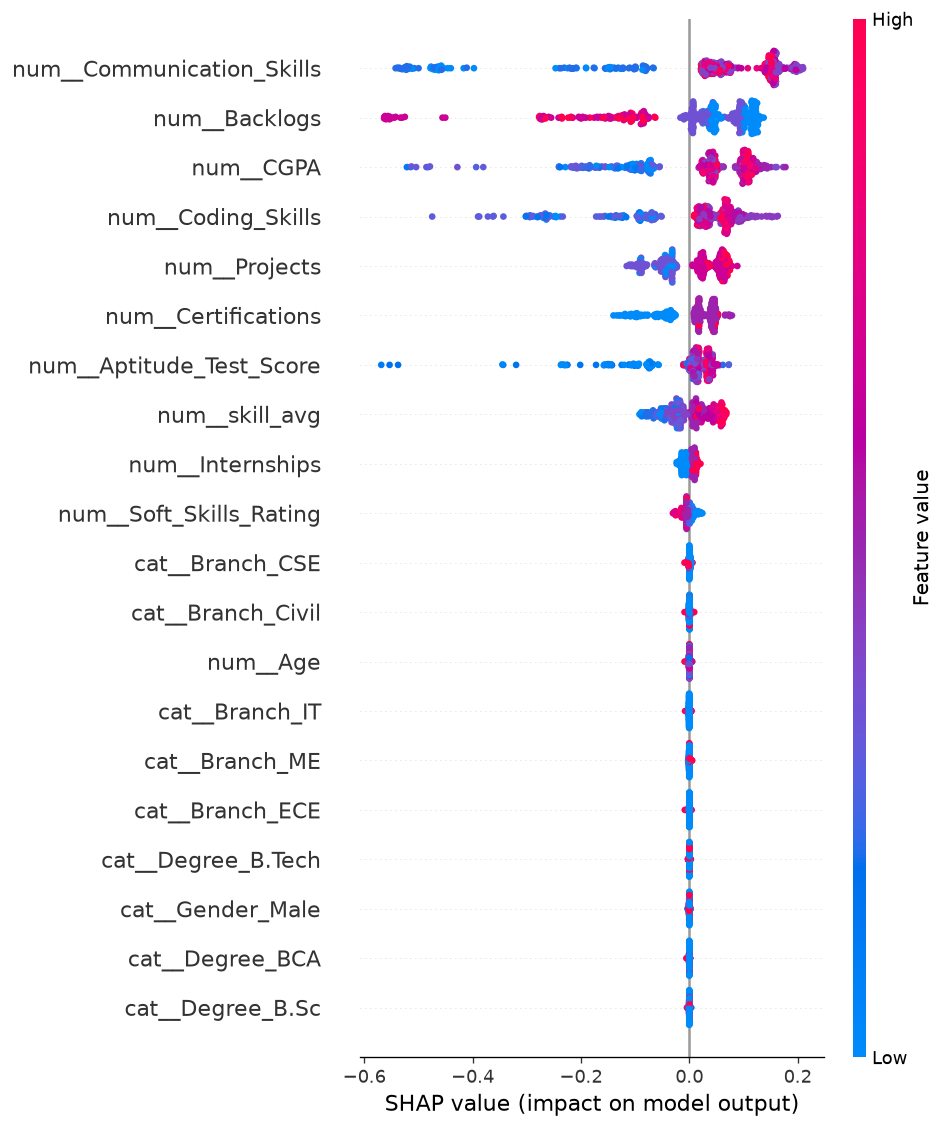
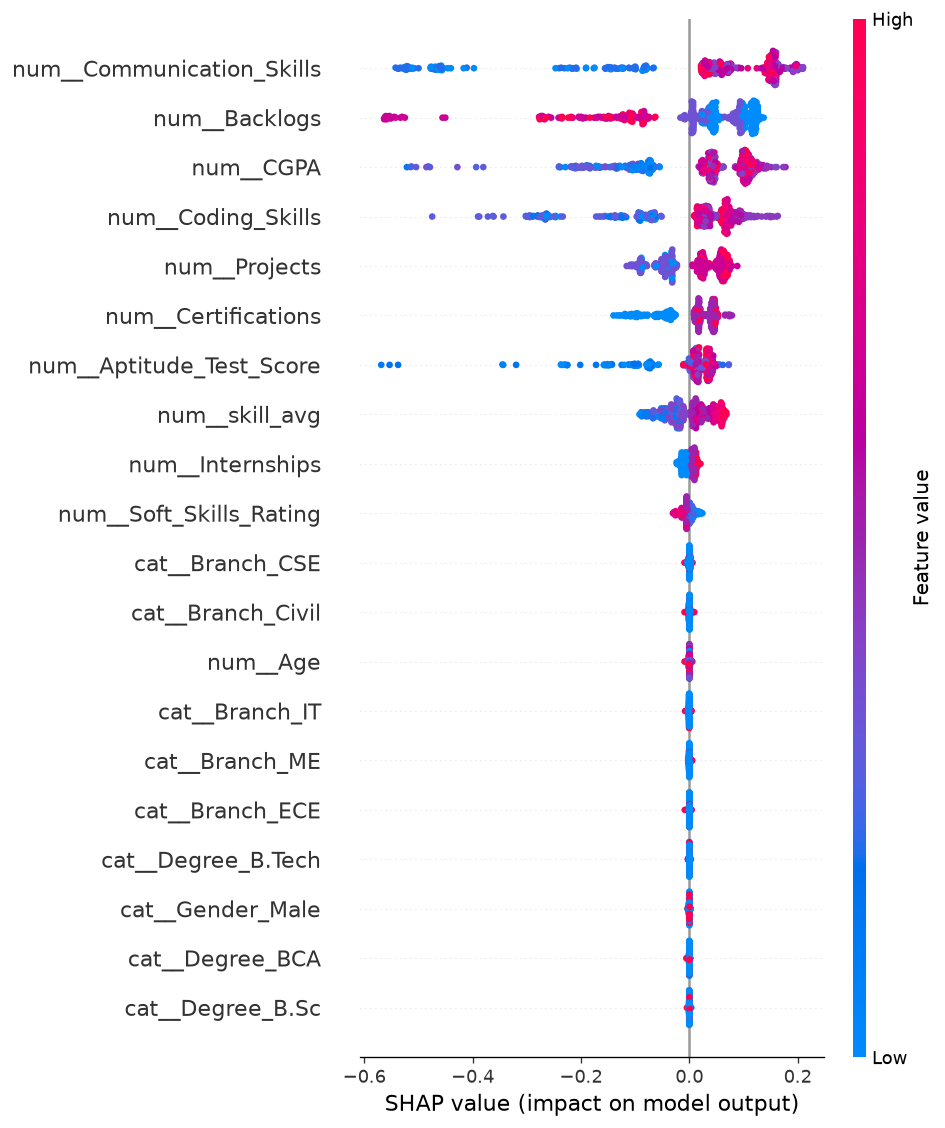
Fix all 5 round-2 audit findings
- Sync frontend HTML min/max bounds and labels to api/schema.py's tightened
  Pydantic validation (was allowing values the backend now rejects, e.g.
  Internships up to 10 vs backend's 5).
- Extract skill_avg into a shared features.py, imported by both
  model/train.py and api/main.py, instead of two hand-written copies of the
  same formula (was a train/serve skew risk).
- Guard /predict's top-3 feature selection against duplicate clean names --
  a multi-category column (Branch, Degree) produces several one-hot dummies,
  and without this two dummies for the same column could both appear in the
  response. Verified via a Branch x Degree sweep against the live API.
- Add a test exercising the 'Not Placed' branch -- the existing test only
  ever hit the high-probability 'Placed' path.
- Split requirements.txt into prod-only and requirements-dev.txt (adds
  pytest/httpx), so the deployed container doesn't install test tooling.

diff --git a/frontend/index.html b/frontend/index.html
@@ -25,8 +25,8 @@
 <p class="sub">Predicts whether a student will be placed, with a plain-language explanation of why.</p>
 
 <form id="form">
-  <label>Age
-    <input name="Age" type="number" step="1" min="17" max="30" value="22" required />
+  <label>Age (17-26)
+    <input name="Age" type="number" step="1" min="17" max="26" value="22" required />
   </label>
   <label>Gender
     <select name="Gender"><option>Male</option><option>Female</option></select>
@@ -39,36 +39,36 @@
     <select name="Branch"><option>CSE</option><option>IT</option><option>ECE</option><option>ME</option><option>Civil</option></select>
   </label>
 
-  <label>CGPA (0-10)
-    <input name="CGPA" type="number" step="0.01" min="0" max="10" value="7.5" required />
+  <label>CGPA (4-10)
+    <input name="CGPA" type="number" step="0.01" min="4" max="10" value="7.5" required />
   </label>
-  <label>Aptitude test score (0-100)
-    <input name="Aptitude_Test_Score" type="number" step="0.1" min="0" max="100" value="70" required />
-  </label>
-
-  <label>Internships
-    <input name="Internships" type="number" step="1" min="0" max="10" value="1" required />
-  </label>
-  <label>Projects
-    <input name="Projects" type="number" step="1" min="0" max="20" value="4" required />
+  <label>Aptitude test score (30-100)
+    <input name="Aptitude_Test_Score" type="number" step="0.1" min="30" max="100" value="70" required />
   </label>
 
-  <label>Coding skills (0-10)
-    <input name="Coding_Skills" type="number" step="1" min="0" max="10" value="6" required />
+  <label>Internships (0-5)
+    <input name="Internships" type="number" step="1" min="0" max="5" value="1" required />
   </label>
-  <label>Communication skills (0-10)
-    <input name="Communication_Skills" type="number" step="1" min="0" max="10" value="6" required />
-  </label>
-
-  <label>Soft skills rating (0-10)
-    <input name="Soft_Skills_Rating" type="number" step="1" min="0" max="10" value="6" required />
-  </label>
-  <label>Certifications
-    <input name="Certifications" type="number" step="1" min="0" max="10" value="1" required />
+  <label>Projects (0-8)
+    <input name="Projects" type="number" step="1" min="0" max="8" value="4" required />
   </label>
 
-  <label>Backlogs
-    <input name="Backlogs" type="number" step="1" min="0" max="10" value="0" required />
+  <label>Coding skills (1-10)
+    <input name="Coding_Skills" type="number" step="1" min="1" max="10" value="6" required />
+  </label>
+  <label>Communication skills (1-10)
+    <input name="Communication_Skills" type="number" step="1" min="1" max="10" value="6" required />
+  </label>
+
+  <label>Soft skills rating (1-10)
+    <input name="Soft_Skills_Rating" type="number" step="1" min="1" max="10" value="6" required />
+  </label>
+  <label>Certifications (0-5)
+    <input name="Certifications" type="number" step="1" min="0" max="5" value="1" required />
+  </label>
+
+  <label>Backlogs (0-5)
+    <input name="Backlogs" type="number" step="1" min="0" max="5" value="0" required />
   </label>
 
   <button type="submit">Predict placement</button>

diff --git a/tests/test_api.py b/tests/test_api.py
@@ -33,3 +33,30 @@ def test_predict_rejects_out_of_range_input():
     payload = dict(EXAMPLE_PAYLOAD, CGPA=999)
     res = client.post("/predict", json=payload)
     assert res.status_code == 422
+
+
+def test_predict_low_scoring_profile_is_not_placed():
+    # Deliberately weak profile (low CGPA/skills, no internships, backlogs)
+    # to exercise the "Not Placed" branch -- the example payload above always
+    # scores high, so without this the low-probability code path is untested.
+    payload = dict(
+        EXAMPLE_PAYLOAD,
+        Gender="Female",
+        Degree="B.Sc",
+        Branch="Civil",
+        CGPA=4.5,
+        Internships=0,
+        Projects=1,
+        Coding_Skills=1,
+        Communication_Skills=1,
+        Aptitude_Test_Score=30,
+        Soft_Skills_Rating=1,
+        Certifications=0,
+        Backlogs=5,
+    )
+    res = client.post("/predict", json=payload)
+    assert res.status_code == 200
+
+    body = res.json()
+    assert body["prediction"] == "Not Placed"
+    assert body["probability_placed"] < 0.5

diff --git a/api/main.py b/api/main.py
@@ -11,6 +11,7 @@ from fastapi.staticfiles import StaticFiles
 
 from api.explain_utils import describe_feature, split_transformed_name
 from api.schema import PredictionResponse, PlacementInput, TopFeature
+from features import compute_skill_avg
 
 ROOT = Path(__file__).resolve().parent.parent
 
@@ -35,9 +36,9 @@ else:
 
 
 def _to_frame(payload: PlacementInput) -> pd.DataFrame:
-    row = payload.model_dump()
-    row["skill_avg"] = (row["Coding_Skills"] + row["Communication_Skills"] + row["Soft_Skills_Rating"]) / 3
-    return pd.DataFrame([row])[NUMERIC + CATEGORICAL]
+    df = pd.DataFrame([payload.model_dump()])
+    df["skill_avg"] = compute_skill_avg(df)
+    return df[NUMERIC + CATEGORICAL]
 
 
 @app.get("/health")
@@ -65,15 +66,24 @@ def predict(payload: PlacementInput):
     if isinstance(expected_value, (list, np.ndarray)):
         expected_value = expected_value[1] if np.ndim(expected_value) else float(expected_value)
 
-    order = np.argsort(-np.abs(contributions))[:3]
+    # Rank all features by |contribution|, but keep only the first one seen
+    # per clean column name -- a multi-category column like Branch or Degree
+    # produces several one-hot dummies, and without this guard two dummies
+    # for the same underlying column could both land in the "top 3".
+    ranked = np.argsort(-np.abs(contributions))
     top_features = []
-    for i in order:
+    seen_columns = set()
+    for i in ranked:
+        clean_name, _category = split_transformed_name(FEATURE_NAMES[i], NUMERIC, CATEGORICAL)
+        if clean_name in seen_columns:
+            continue
+        seen_columns.add(clean_name)
+
         contrib = float(contributions[i])
         direction = "increased" if contrib > 0 else "decreased"
         base_prob = 1 / (1 + np.exp(-expected_value))
         bumped_prob = 1 / (1 + np.exp(-(expected_value + contrib)))
         impact_pct = round((bumped_prob - base_prob) * 100, 2)
-        clean_name, _category = split_transformed_name(FEATURE_NAMES[i], NUMERIC, CATEGORICAL)
         top_features.append(
             TopFeature(
                 feature=clean_name,
@@ -82,6 +92,8 @@ def predict(payload: PlacementInput):
                 explanation=describe_feature(FEATURE_NAMES[i], direction, raw_row, NUMERIC, CATEGORICAL),
             )
         )
+        if len(top_features) == 3:
+            break
 
     return PredictionResponse(
         prediction=label,

diff --git a/features.py b/features.py
@@ -1,0 +1,12 @@
+"""Shared feature engineering.
+
+Single source of truth for derived features used by both model/train.py
+(training) and api/main.py (serving) -- if these ever drift apart, the model
+would be trained on one feature definition and served with another (train/serve
+skew), which fails silently rather than erroring.
+"""
+import pandas as pd
+
+
+def compute_skill_avg(df: pd.DataFrame) -> pd.Series:
+    return df[["Coding_Skills", "Communication_Skills", "Soft_Skills_Rating"]].mean(axis=1)

diff --git a/model/train.py b/model/train.py
@@ -8,6 +8,7 @@ Run: python model/train.py
 """
 import json
 import os
+import sys
 from pathlib import Path
 
 import joblib
@@ -37,14 +38,18 @@ NUMERIC = [
 CATEGORICAL = ["Gender", "Degree", "Branch"]
 
 ROOT = Path(__file__).resolve().parent.parent
+sys.path.insert(0, str(ROOT))
+from features import compute_skill_avg  # noqa: E402 (needs ROOT on sys.path first)
+
 os.makedirs(ROOT / "results", exist_ok=True)
 os.makedirs(ROOT / "model", exist_ok=True)
 
 df = pd.read_csv(ROOT / "data" / "placement_data.csv")
 
 # Derived feature: overall skill strength across the three 0-10 rated skill
-# dimensions (coding, communication, soft skills).
-df["skill_avg"] = df[["Coding_Skills", "Communication_Skills", "Soft_Skills_Rating"]].mean(axis=1)
+# dimensions (coding, communication, soft skills). Shared with api/main.py
+# via features.py so training and serving can't compute this differently.
+df["skill_avg"] = compute_skill_avg(df)
 
 # Missing-value strategy (documented in README): numeric -> median impute,
 # categorical -> most-frequent impute. This real dataset has zero missing

diff --git a/README.md b/README.md
@@ -158,7 +158,10 @@ across library (or Python) versions.
 
 ```bash
 python3 -m venv venv && source venv/bin/activate
-pip install -r requirements.txt
+pip install -r requirements-dev.txt
+# (requirements-dev.txt = requirements.txt + pytest/httpx for testing.
+#  Deploy configs install plain requirements.txt only, so the deployed
+#  container doesn't carry test tooling.)
 
 # 1. Prepare the real dataset (data/raw/train.csv + test.csv already included in this repo)
 python data/prepare_real_data.py